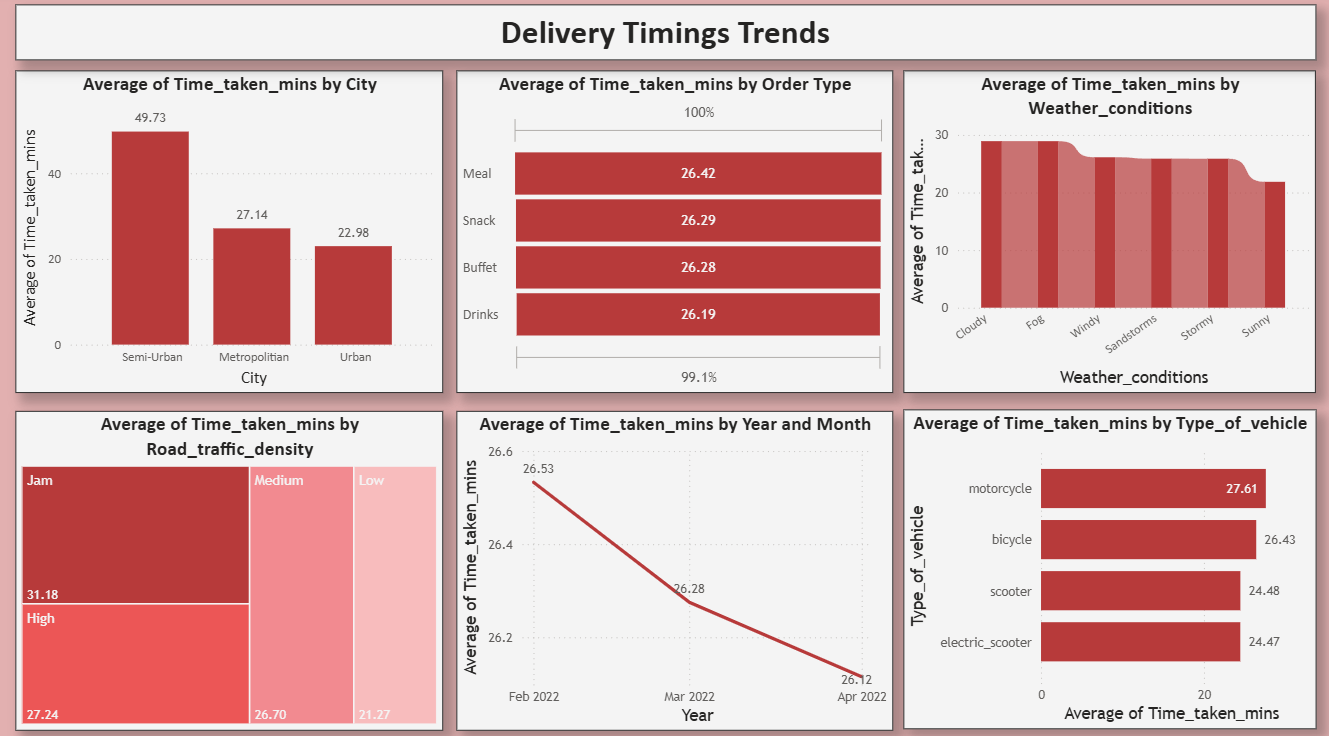
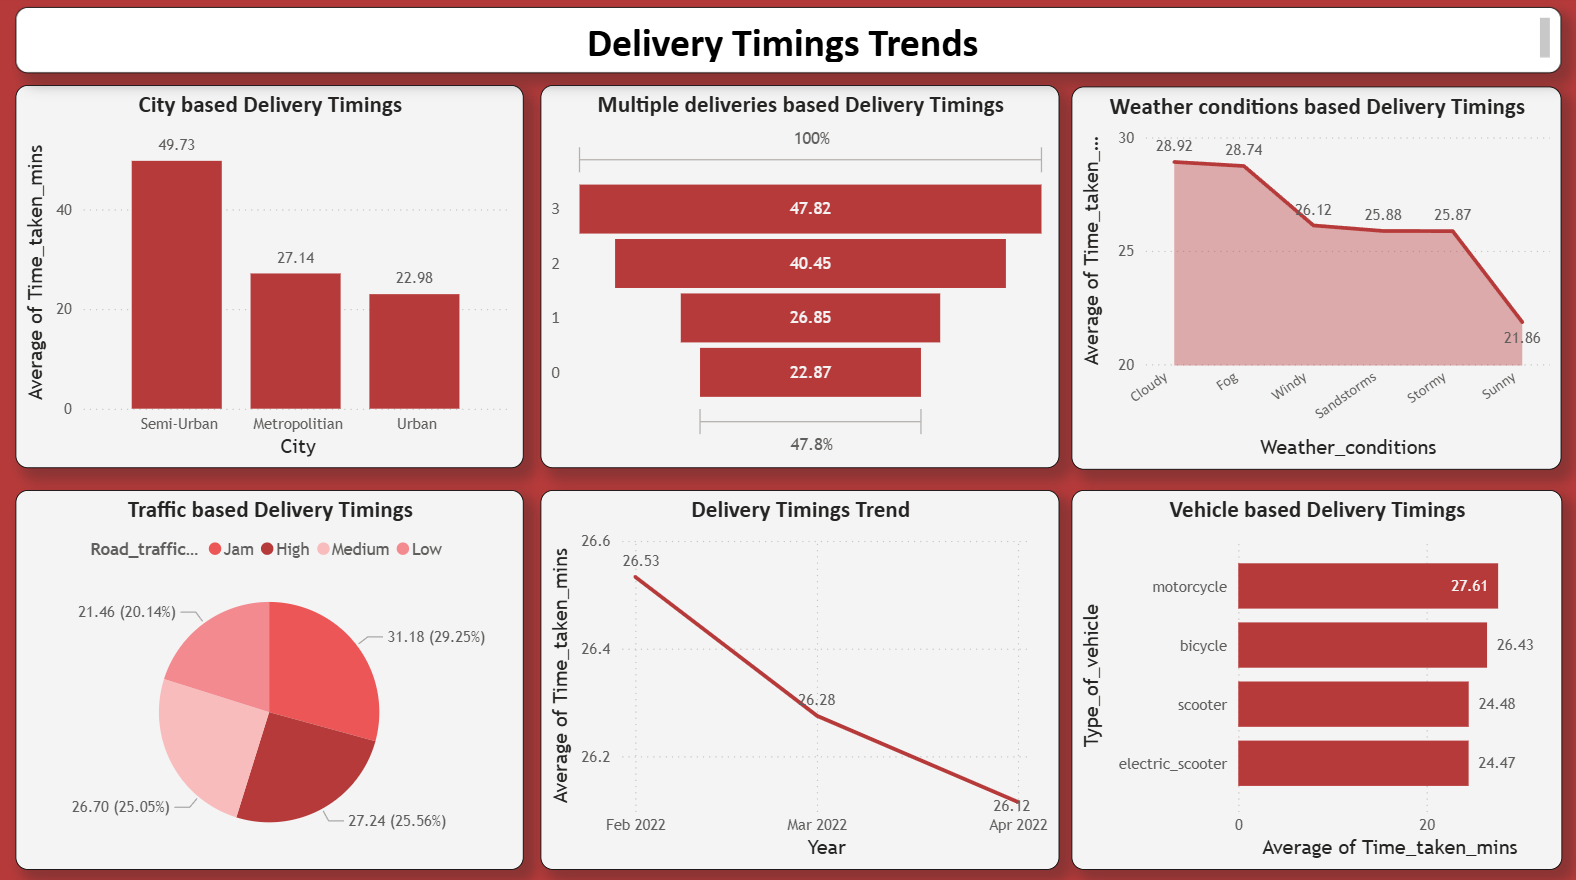
update

diff --git a/zomato_data/README.md b/zomato_data/README.md
@@ -1,9 +1,9 @@
 # Zomato Delivery Efficiency Analytics
 End-to-End Data Analytics Project — Python (ETL) + MySQL (Data Warehouse) + Power BI (Dashboard)
 
-![Delivery Timing Trends](/zomato_data/powerbi/delivery_timing_trends.png)
+![Delivery Timing Trends](/zomato_data/powerbi/dashboard_homepage.png)
 
-This project performs a complete analysis of Zomato’s delivery operations to understand delivery timing patterns, driver performance, geographical influences, and customer experience factors.
+This project performs a complete analysis of Zomato’s delivery operations to understand delivery timing patterns, driver performance, geographical influences, and customer experience factors. It features case studies drilling down into specific factors to improve customer satisfaction.
 
 ## Workflow:
 Raw CSV → Python Cleaning & Transformation → MySQL Data Warehouse → Power BI Interactive Dashboard
@@ -40,6 +40,13 @@ Develop a Power BI dashboard featuring:
 
 Showcase Python, SQL, ETL, and BI skills end-to-end.
 
+## Methodology
+
+- Raw data taken exported from kaggle [zomato](https://www.kaggle.com/datasets/saurabhbadole/zomato-delivery-operations-analytics-dataset/data) in csv 
+- Data cleaning including datatype fixing, imputing missing data, derived columns in python using pandas
+- Dataset uploaded to MySQL server and queries to find insights from the data
+- Power BI dashboard created using the SQL database for visual storytelling and dedicated deepdives to analyse the factors in detail
+
 ## Tech Stack
 
 Python
@@ -63,9 +70,58 @@ Power BI
 
 ## Key Business Insights 
 
-Average delivery time is reducing while average ratings are falling over time leading to play of other factors in decline of delivery ratings.
-- Semi-urban areas suffer 30% slower deliveries.
-- Weather (Cloudy/fog) increases average delivery time up to +2 mins.
-- Electric scooters drive the shortest duration time with high positive environmental impact.
-- Traffic jam conditions cause the highest delays.
-- Delivery ratings peak for riders aged between 20-30 with an average of 4.7
+Overall delivery time is improving, but customer ratings are declining, indicating deeper operational factors at play.
+This project investigates three major drivers: Geography, Traffic Density, and Multiple Deliveries.
+
+### Geographical Constraints: Semi-Urban Performance Gap
+Semi-Urban regions consistently underperform across all delivery metrics.
+
+Key Findings:
+- Slowest delivery times: ~49 mins vs 26-min overall average
+- Lowest customer ratings: 4.50 vs 4.63 overall
+- Extremely low order volume: 0.3% of total orders
+- Highest tendency for multiple deliveries, increasing delays
+- Shortest distance (0.57 km), proving distance is not the cause of slow performance
+
+Root Causes:
+- Poor infrastructure slowing rider movement
+- Low demand causing inconsistent or undertrained rider supply
+- Limited brand presence and customer adoption
+
+Recommendations:
+- Strengthen quality control and rider training
+- Increase brand awareness via local partnerships
+- Limit multi-order assignments in Semi-Urban areas
+
+### Traffic Density: Rider Assignment Inefficiency
+Orders placed near restaurants still face high delivery times in traffic-heavy zones.
+
+Insights:
+- Riders are often dispatched from distant areas, delaying pickup
+- High traffic amplifies these delays, even for short-distance orders
+
+Recommendation:
+- Improve the rider–order matching algorithm to prioritize nearest available delivery partners
+
+### Multiple Orders: The Multi-Delivery Threshold
+Handling more orders increases delivery time as expected, but deeper patterns emerge.
+
+Key Findings:
+- Direct increase in delivery time with each additional order
+- Surprisingly, restaurant distance decreases when handling 2+ orders
+- Ratings drop sharply despite shorter distances
+- Volume of 2+ multi-deliveries is significantly low, indicating natural or system-avoided overload
+
+Interpretation:
+- Customers ordering locally for combined deliveries create high workload with low travel distance
+- Even short distances can see delays when rider allocation is inefficient
+
+Conclusion:
+The optimal operational threshold is 1 extra order:
+- Delivery time remains stable
+- Ratings show minimal decline
+- Rider workload stays manageable
+
+Beyond this point, performance and customer satisfaction drop significantly.
+
+
